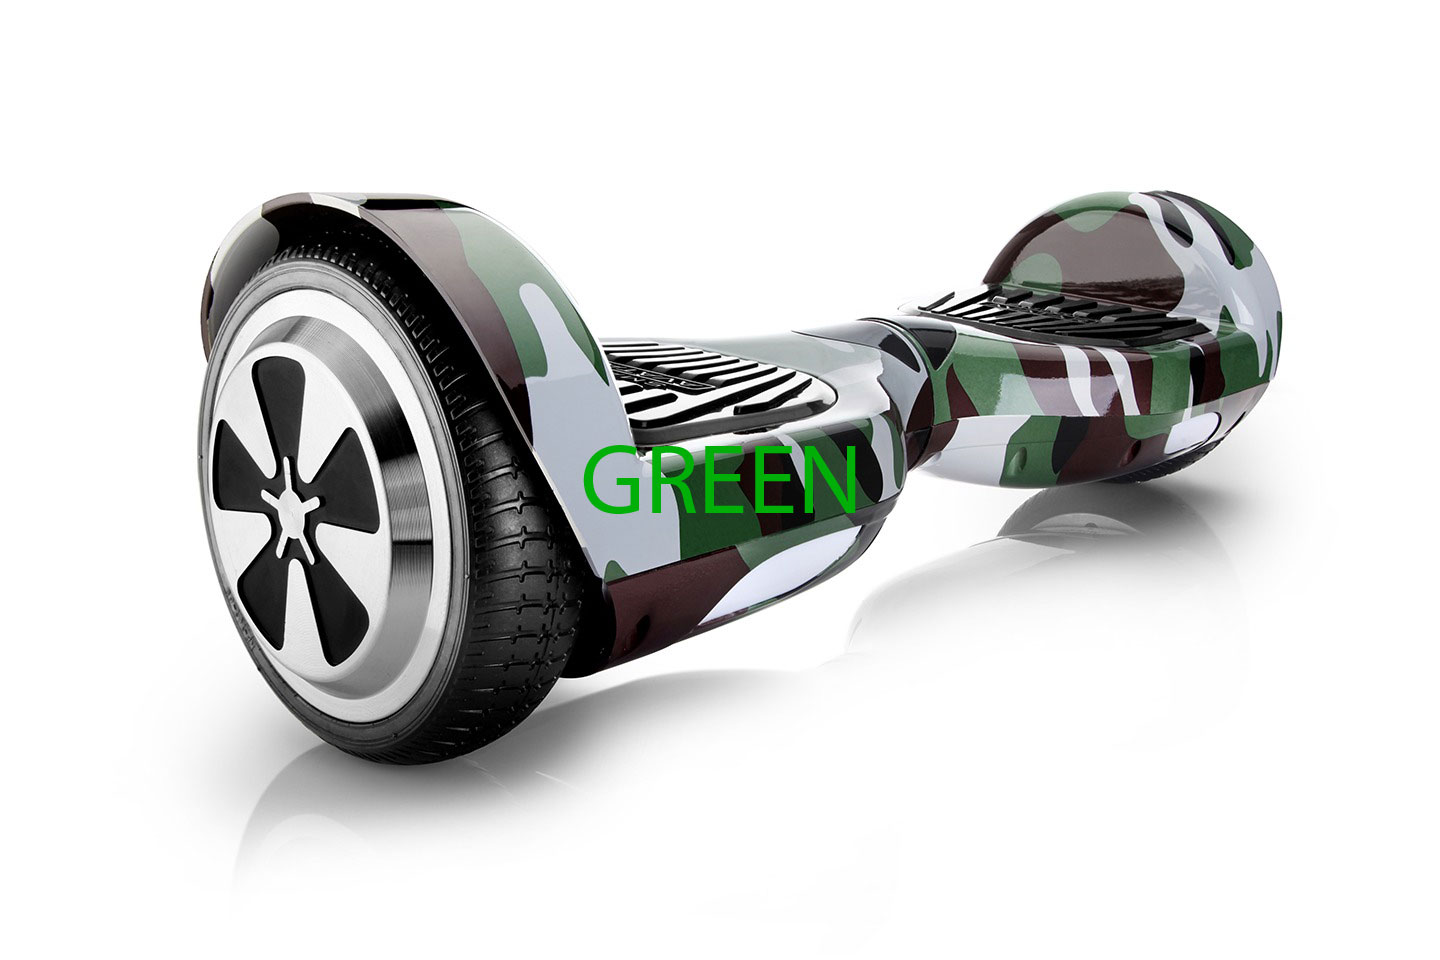
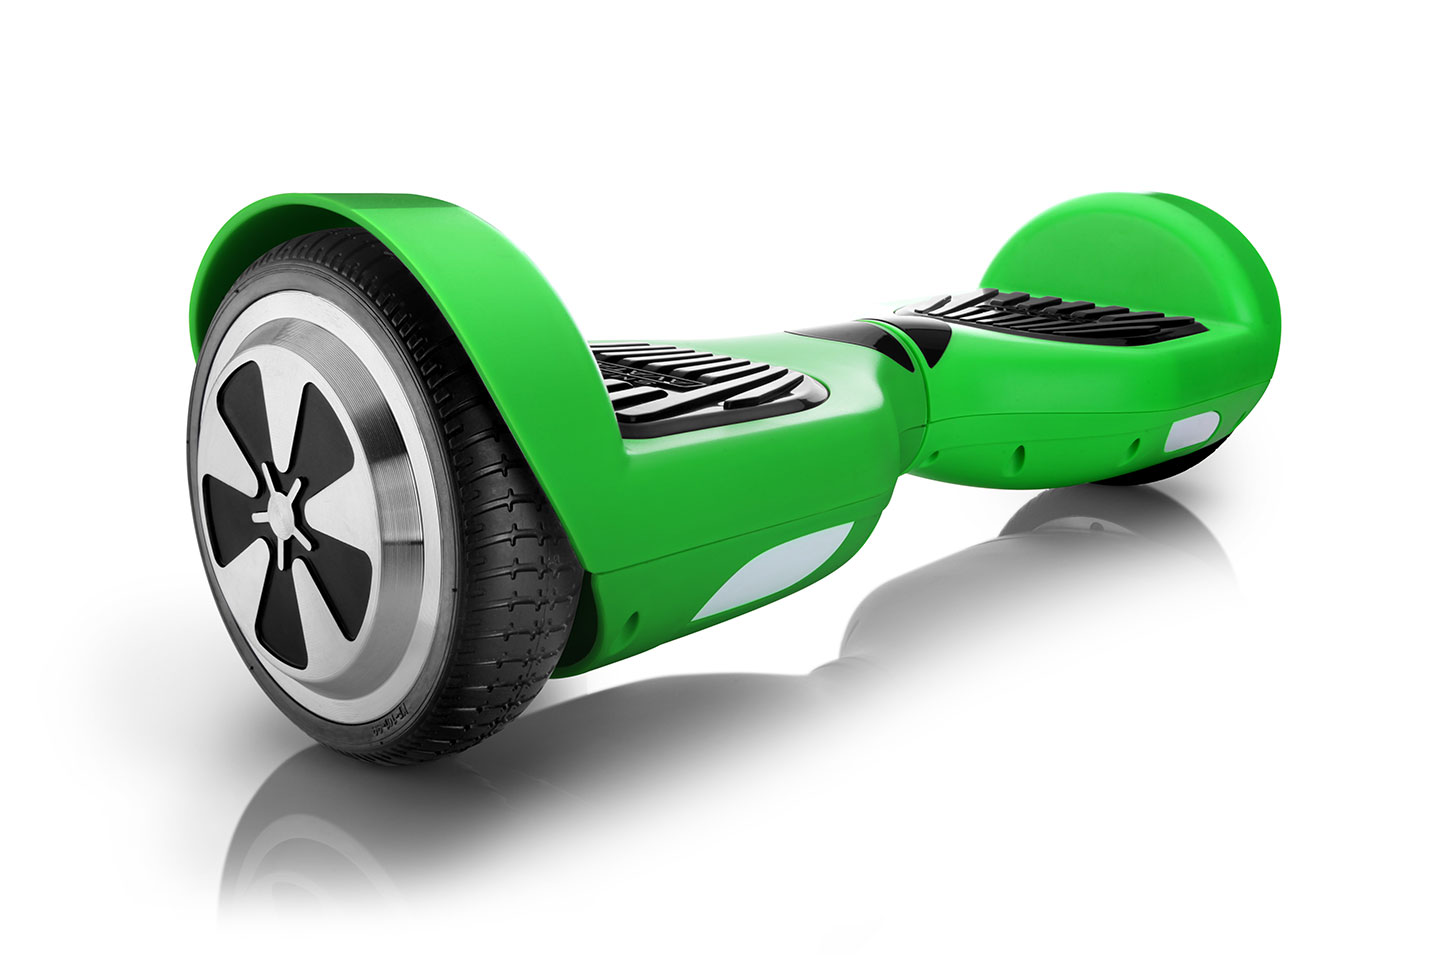
Изображени Аватар Эко
Заменены почти все изображения на странице Аватар Эко

Changed region(s): [[0.125, 0.1875, 0.9062, 0.9375]]

diff --git a/avatar-eco.html b/avatar-eco.html
@@ -1498,7 +1498,7 @@
                     <div class="product-item__price"><span class="digit">27 000</span><span class="units">рублей</span></div><a href="#" class="btn-standart more-info btn-red">Купить Avatar Eco</a>
                   </div>
                 </div>
-                <div class="product-item__image"><img src="img/content/avatar_01.jpg" alt=""><img src="img/content/avatar-eco-hucky-2.jpg" alt="" class="hidden"><img src="img/content/avatar-eco-hucky-3.jpg" alt="" class="hidden"></div>
+                <div class="product-item__image"><img src="img/content/avatar_01.jpg" alt=""><img src="img/content/avatar-eco-green.jpg" alt="" class="hidden"><img src="img/content/avatar-eco-blue.jpg" alt="" class="hidden"></div>
               </div>
             </div>
           </div>
@@ -1884,7 +1884,7 @@
           </div>
         </div>
         <div class="ymap__container">
-          <div class="ymap__title"> 
+          <div class="ymap__title">
             <h3>Найди свой SMART рядом с домом</h3><span>Более 75 авторизованных точек продаж в 10 городах России.</span>
           </div>
           <div class="container geocoder__container">
@@ -1963,7 +1963,7 @@
             </div>
             <div class="col-lg-6 col-sm-12">
               <div class="footer__futuroom"><span>
-                   
+
                   Сделано с<span class="svg-container icon-heart">
                     <svg class="icon icon-heart">
                       <use xlink:href="#icon-heart"></use>
